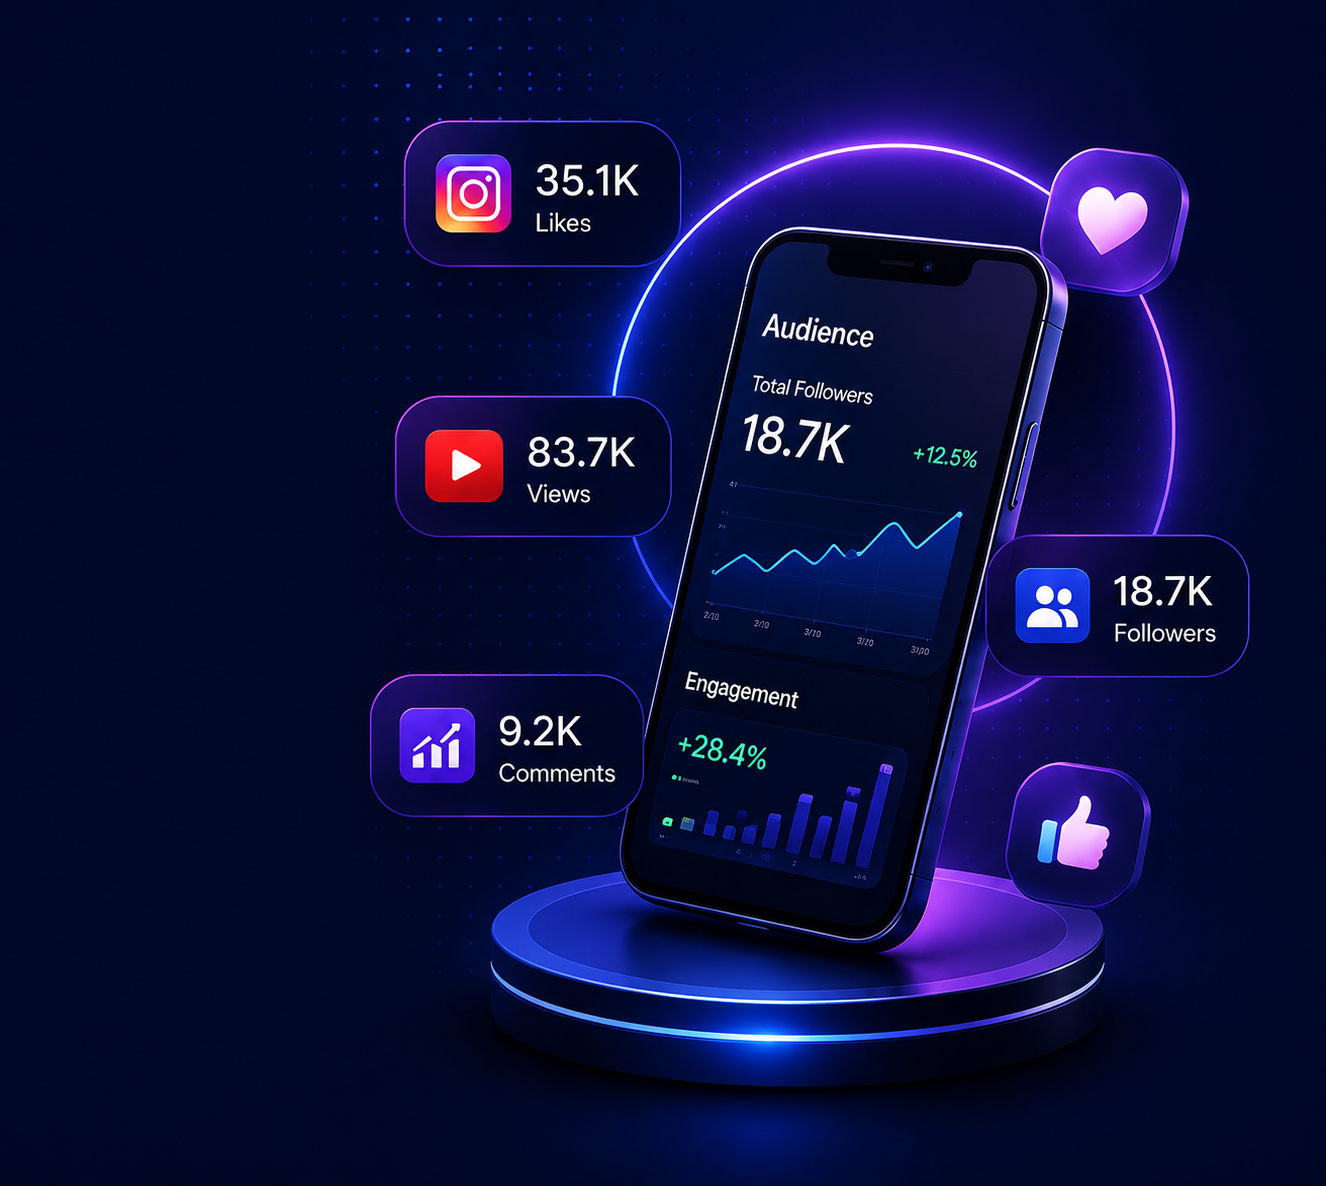
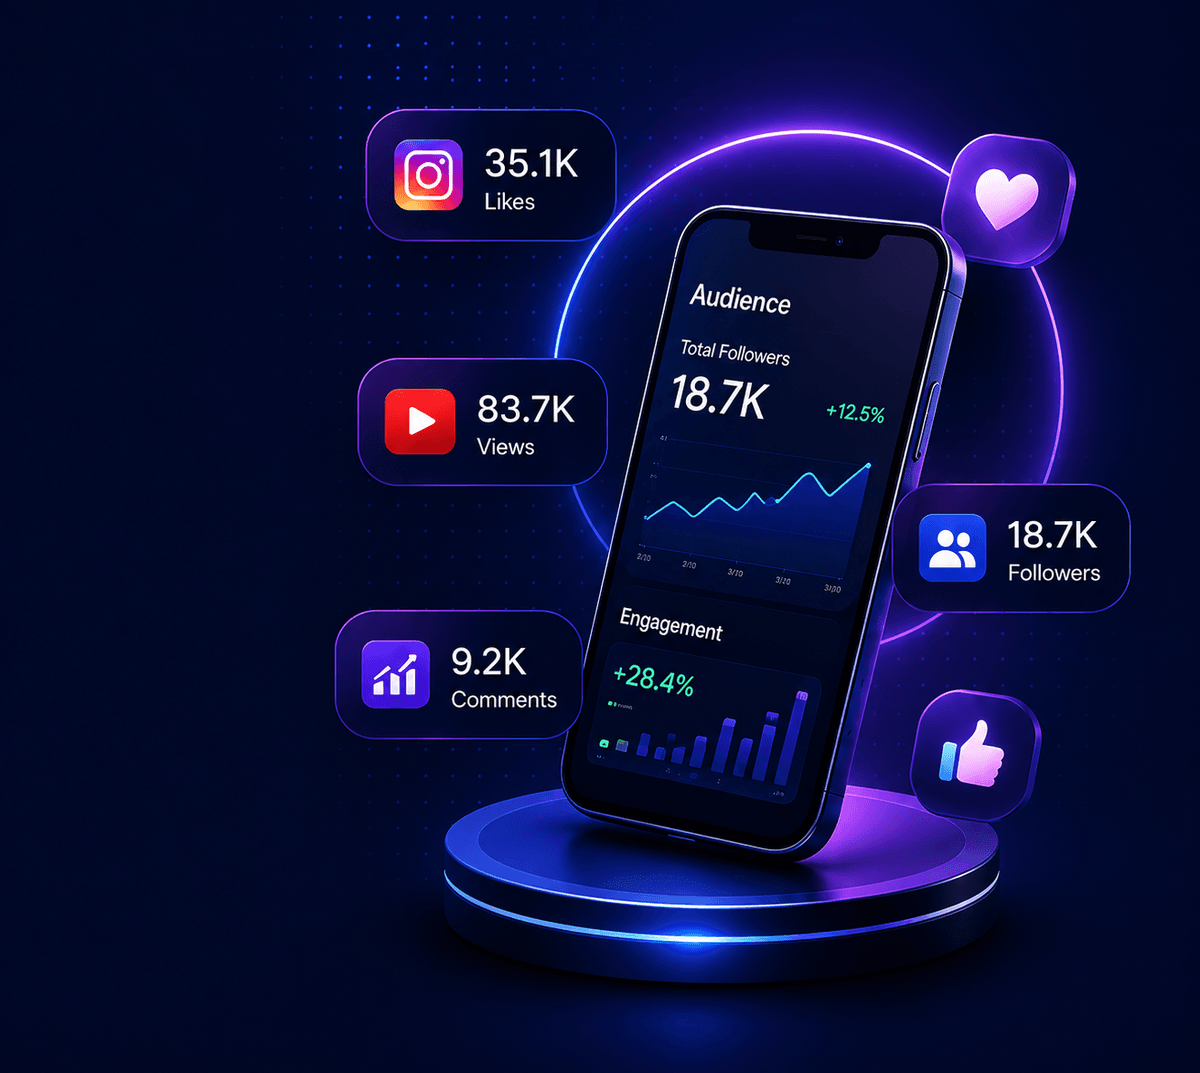
perf(mobile): compress hero images 3.9MB -> 750KB, tidy assets
- hero_stats/post/invite PNGs: palette-quantized + capped at 1200px wide
  (rendered at <=400dp in cards; no visible quality change)
- Delete grand_navy_gradient_dashboard.png (816KB, only ever referenced
  in a code comment, never require()d)
- Rename 'Social Media Marketing.json' -> assets/lottie/social-media-marketing.json
  and update its single require() in LoginHeroLottie

Changed region(s): [[0.3392, 0.123, 0.37, 0.1845], [0.7092, 0.3691, 0.74, 0.3998], [0.6167, 0.3075, 0.6475, 0.3383]]

diff --git a/components/LoginHeroLottie.tsx b/components/LoginHeroLottie.tsx
@@ -4,7 +4,7 @@ import LottieView from 'lottie-react-native';
 import { LinearGradient } from 'expo-linear-gradient';
 import { loginScreen, radius } from '@/theme';
 
-const LOTTIE_SOURCE = require('../assets/Social Media Marketing.json');
+const LOTTIE_SOURCE = require('../assets/lottie/social-media-marketing.json');
 
 const BG = loginScreen.background;
 
